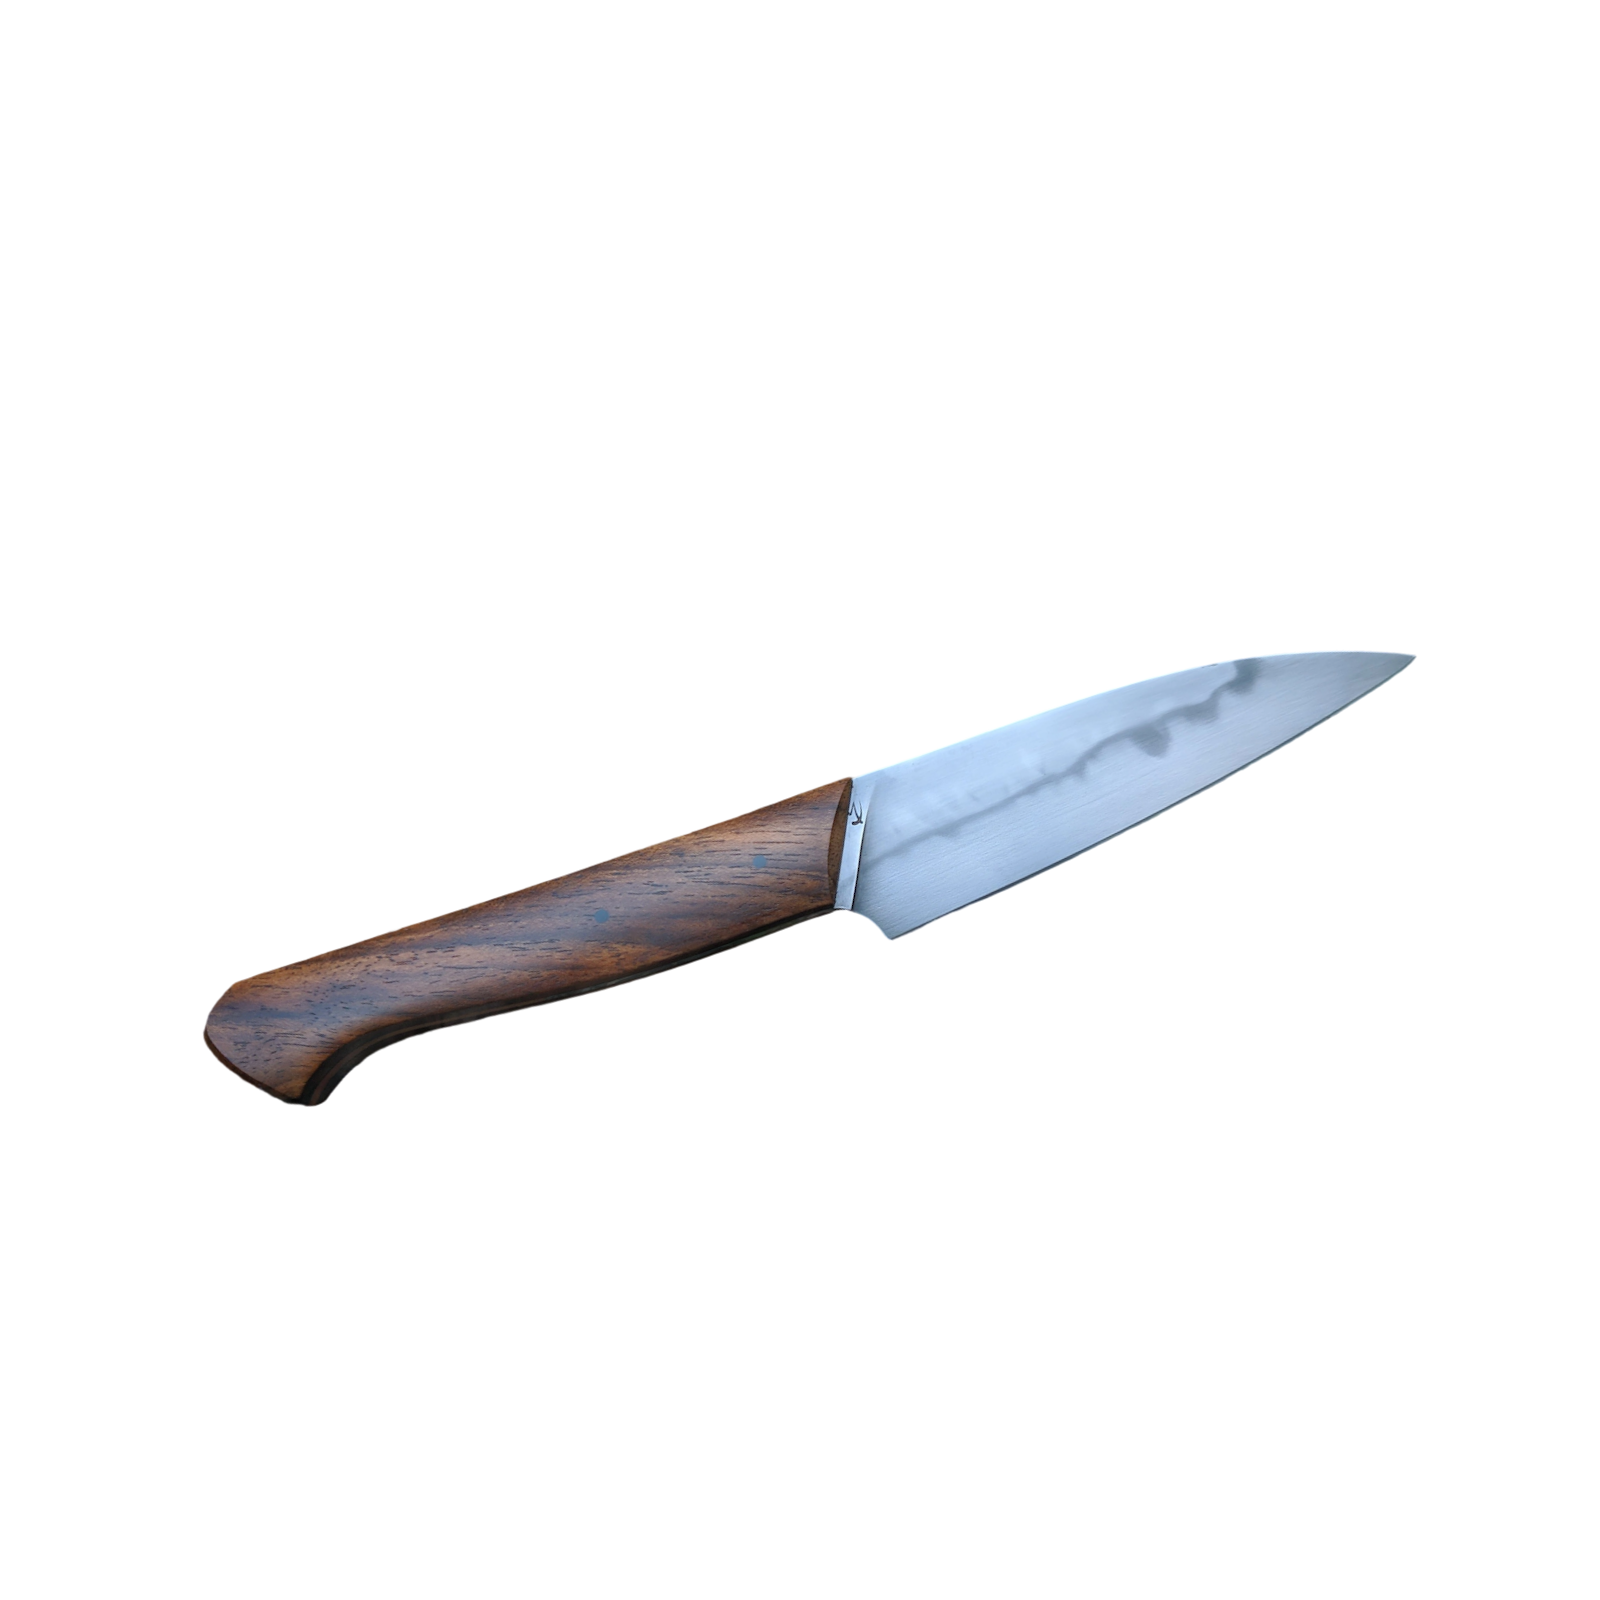
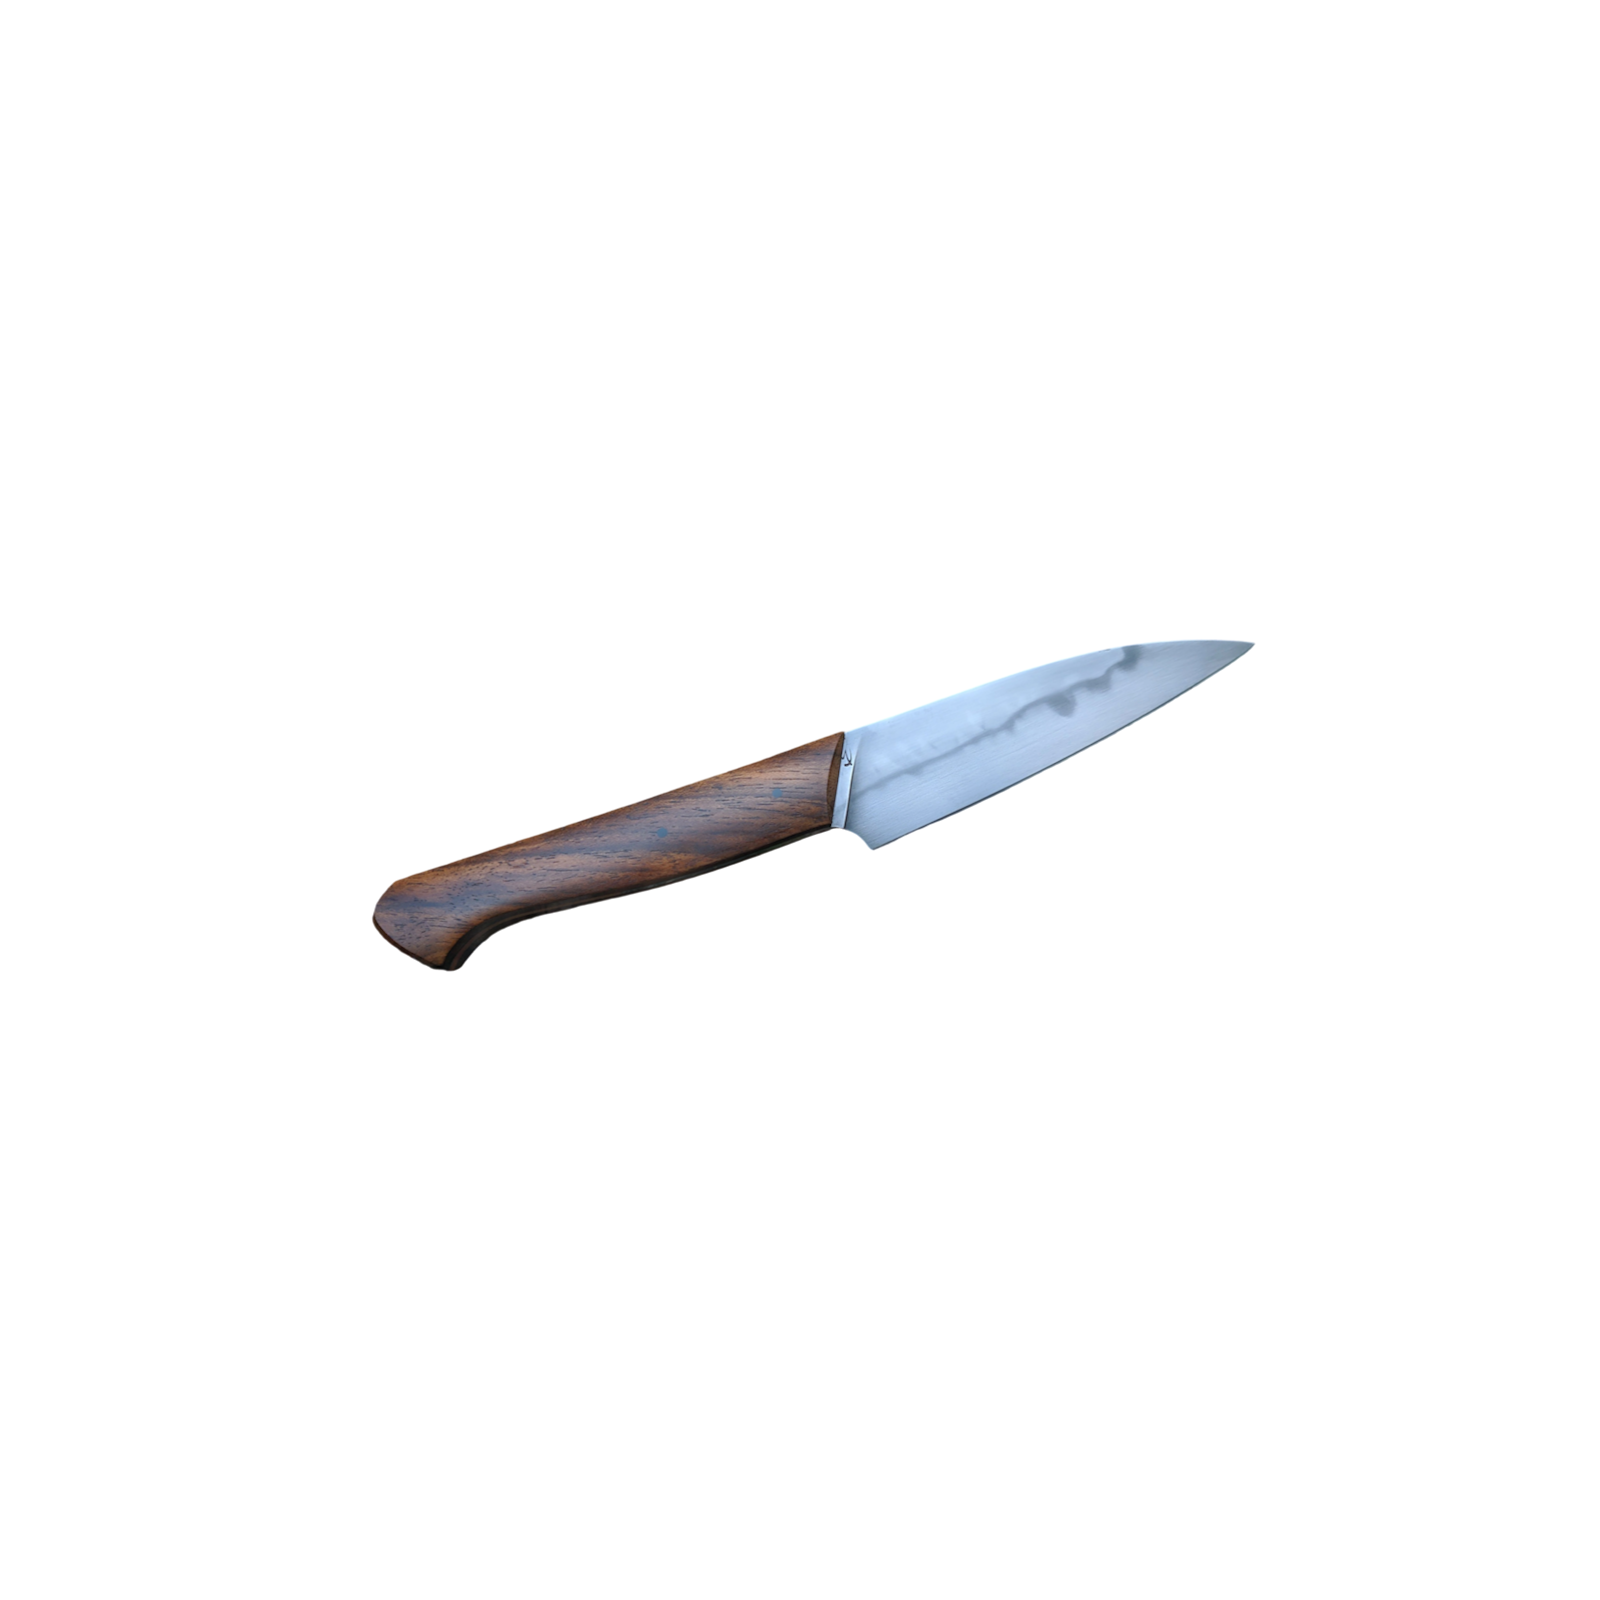
index 0.8.5, header 1.0, text 50%, seo 26%

Changed region(s): [[0.125, 0.375, 0.875, 0.6875]]

diff --git a/src/styles/global.css b/src/styles/global.css
@@ -1158,16 +1158,16 @@ form button[type="submit"]:hover {
    Thème Cuisine
    ------------------------- */
 .theme-cuisine {
-  --slider-bg: url('/images/cuisine/planche-2-ateliersousleclipse.webp');
+  --slider-bg: url('/images/cuisine/planche2-ateliersousleclipse.webp');
   --caption-bg: url('/images/cuisine/papier.png');
 
-  --knife-x: 70%;
-  --knife-y: 42%;
-  --knife-rotate: -20deg;
-  --knife-width: 65%;
+  --knife-x: 47%;
+  --knife-y: 62%;
+  --knife-rotate: 1deg;
+  --knife-width: 75%;
 
   --caption-x: 75%;
-  --caption-y: 75%;
+  --caption-y: 90%;
 }
 .theme-cuisine .knife-image {
   top: var(--knife-y);
@@ -1178,8 +1178,9 @@ form button[type="submit"]:hover {
 }
 @media (max-width: 414px) {
   .theme-cuisine {
-    --knife-width: 70%;
-    --knife-y: 50%;
+    --knife-width: 80%;
+    --knife-y: 65%;
+    --caption-x: 80%;
     --caption-y: 80%;
   }
   .theme-cuisine figcaption {
